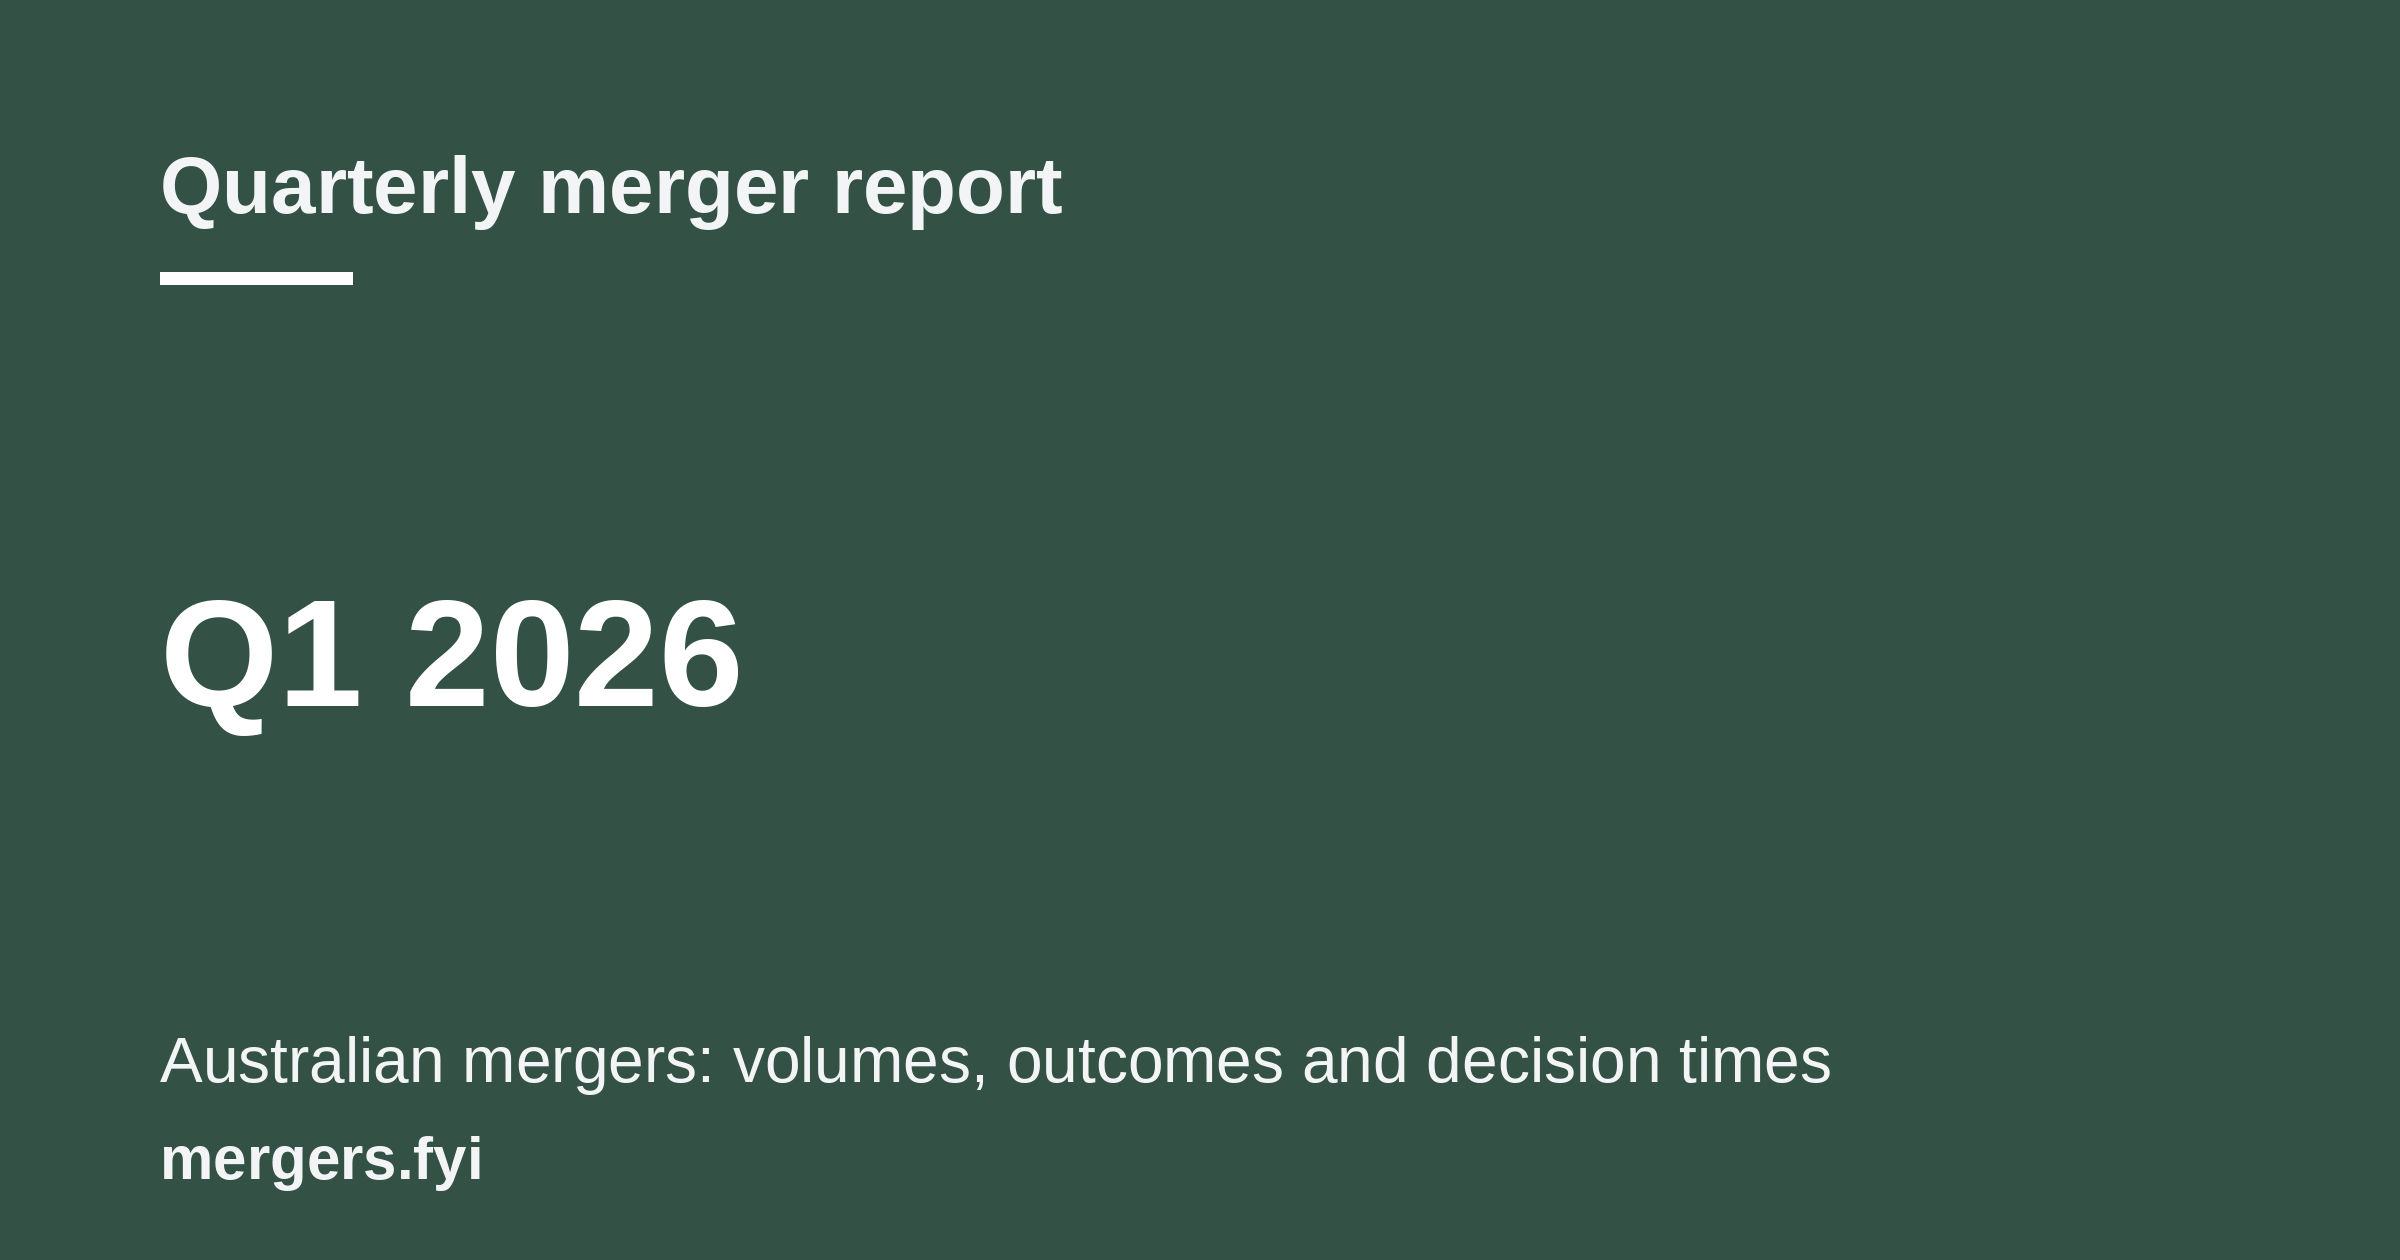
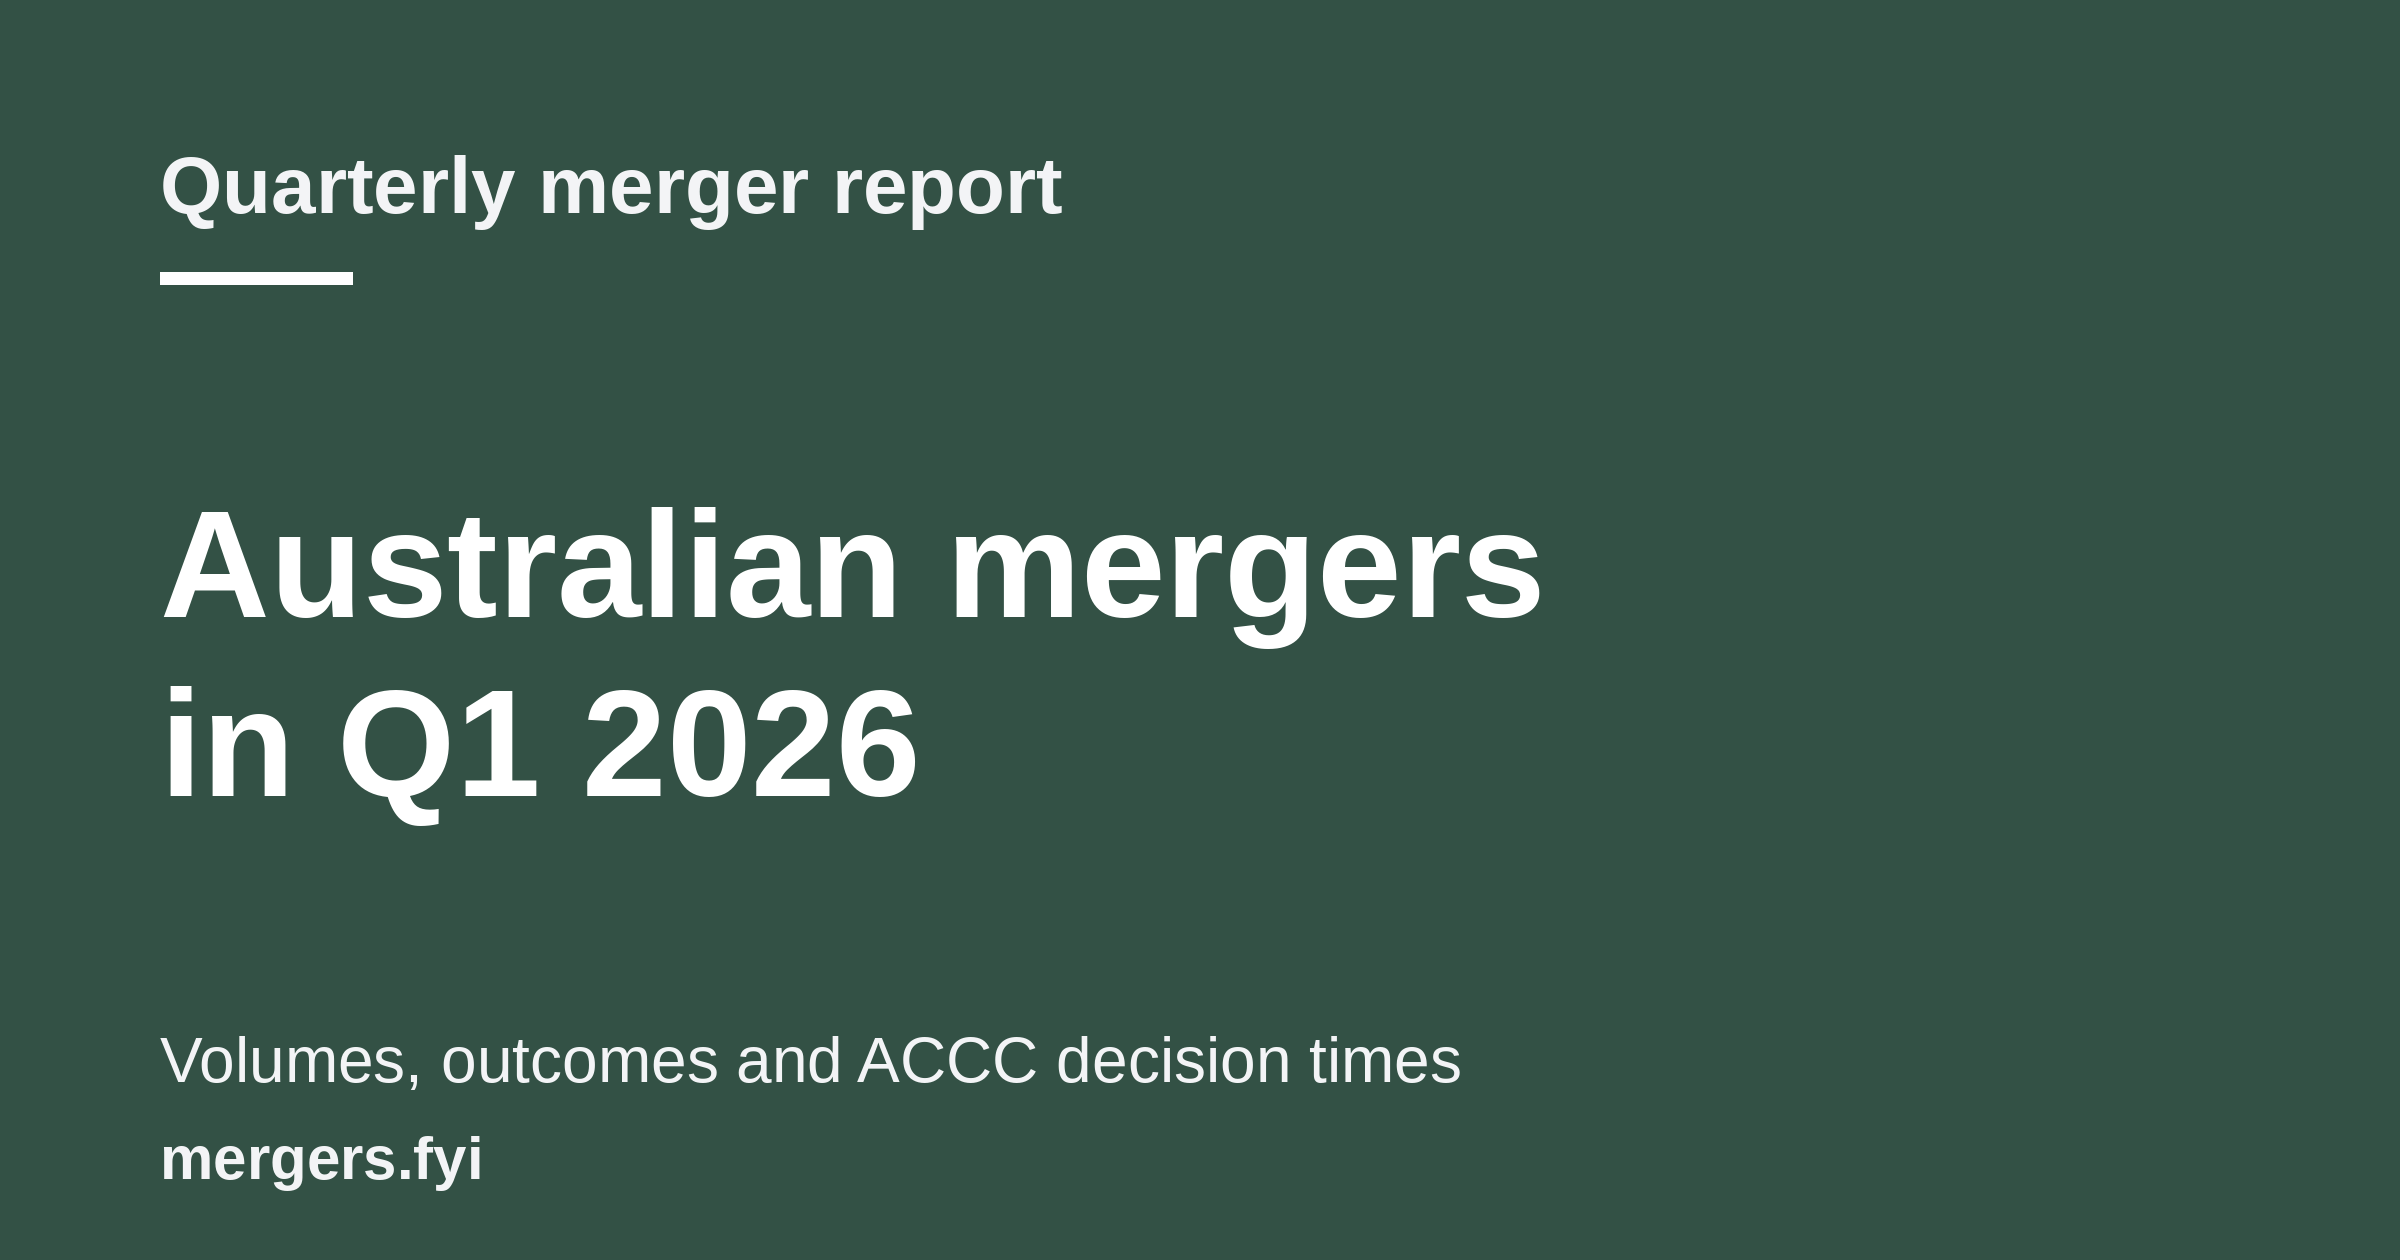
Quarterly link cards: break "in Q3 2026" onto its own line
The card wrapper now honours an explicit line break, so the quarter is never
split across lines.

Changed region(s): [[0.0625, 0.4024, 0.6562, 0.65], [0.0625, 0.8048, 0.7812, 0.8667]]

diff --git a/scripts/generate/og_cards.py b/scripts/generate/og_cards.py
@@ -187,9 +187,9 @@ def write_quarter_cards(payload: dict, out_dir: Path = QUARTER_DIR) -> list[str]
         png = render_status_card(
             kind="notified",
             kicker="Quarterly merger report",
-            # The quarter alone, so "Q3 2026" is never split across lines.
-            headline=quarter["label"],
-            detail="Australian mergers: volumes, outcomes and decision times",
+            # Broken by hand, so the quarter ("in Q3 2026") is never split.
+            headline=f"Australian mergers\nin {quarter['label']}",
+            detail="Volumes, outcomes and ACCC decision times",
         )
         if png is None:
             raise RuntimeError("no usable font found; cannot draw the cards")

diff --git a/scripts/atproto/card_image.py b/scripts/atproto/card_image.py
@@ -188,7 +188,13 @@ def _find(candidates: tuple[str, ...]) -> str | None:
 
 
 def _wrap(draw: ImageDraw.ImageDraw, text: str, font, width: int) -> list[str]:
-    """Greedy word wrap by rendered width. A word wider than the line is split."""
+    """Greedy word wrap by rendered width. A word wider than the line is split.
+
+    A ``\n`` in ``text`` forces a break, so a caller can choose where a
+    phrase splits ("Australian mergers\nin Q3 2026").
+    """
+    if "\n" in text:
+        return [line for part in text.split("\n") for line in _wrap(draw, part, font, width)]
     lines: list[str] = []
     current = ""
     for word in text.split():
